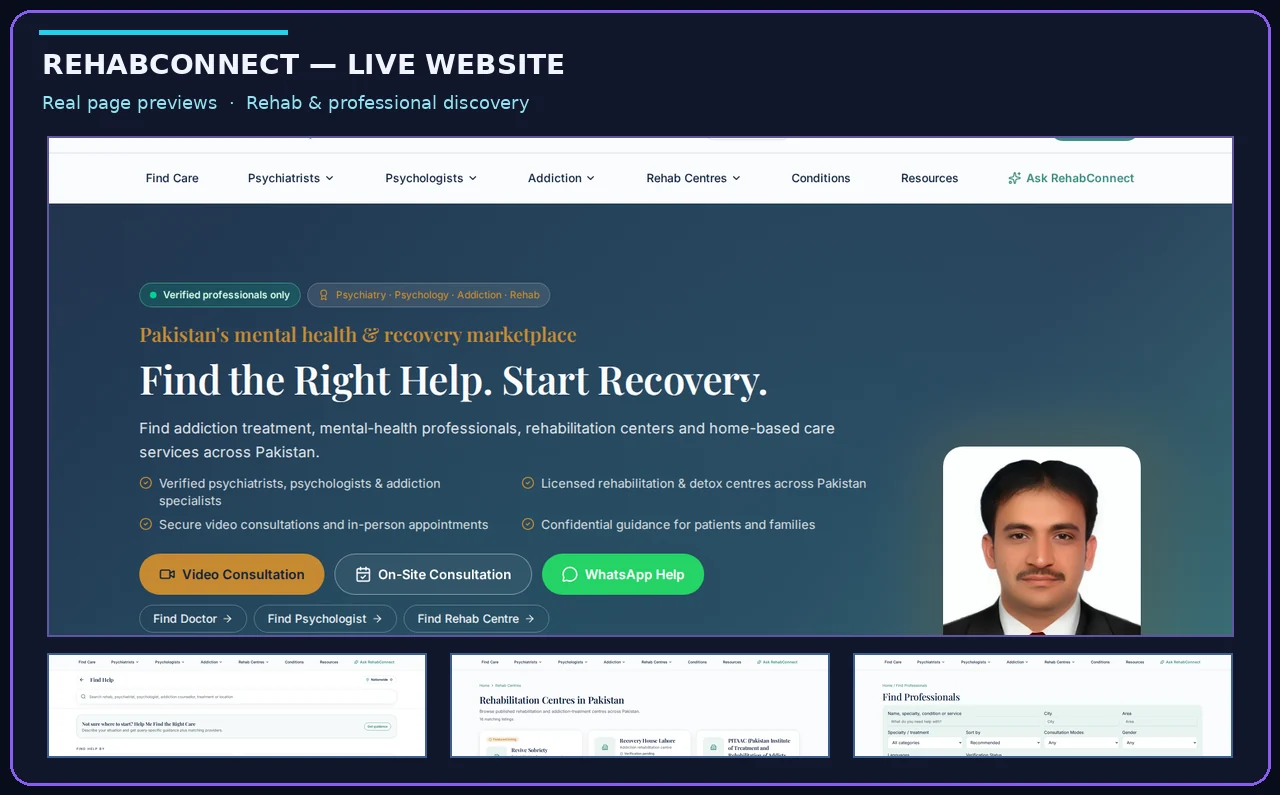
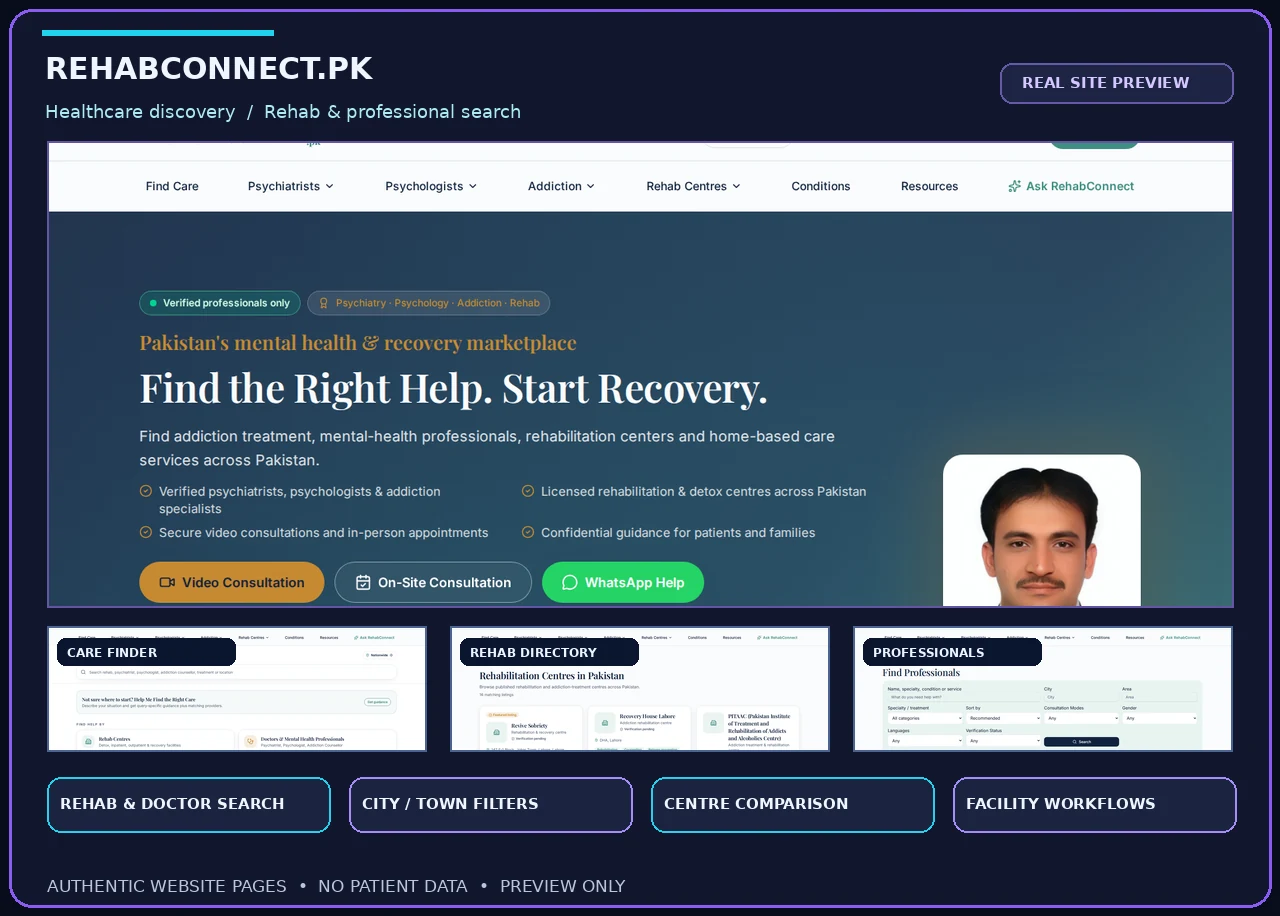
feat(profile): refresh real RehabConnect website previews [skip ci]

diff --git a/PORTFOLIO.md b/PORTFOLIO.md
@@ -78,15 +78,33 @@ These are **real screenshots of public webpages**, not design concepts. The prev
 <!-- DR-SHOAIB-PUBLIC-PAGES:END -->
 
 <!-- REHABCONNECT-PUBLIC-PAGES:START -->
-## RehabConnect — real public website previews
+## RehabConnect — Healthcare Discovery & Facility Operations
 
-These are screenshots from the **actual publicly accessible website**, not illustrative dashboards. **Preview images are not links** to the website or the private GitHub source repository.
+**Platform type:** Healthcare Directory · Rehab Finder · Facility Operations
 
-**Landing page and selected public screens**
+**Short description:** Find rehabilitation centres and mental-health professionals, compare services and access recovery resources.
+
+**Project overview:** A multi-portal healthcare discovery and facility-operations platform. Public pages offer rehabilitation and professional directories, city/town search, centre comparisons and mental-health resources. Separate private tools support facility staff and admission workflows.
+
+**PUBLIC EXPERIENCE · FEATURE BADGES**
+
+<kbd>🏥 Rehab Centre Directory</kbd> <kbd>🩺 Professional Profiles</kbd> <kbd>🔎 Smart Care Finder</kbd> <kbd>📍 City & Town Filters</kbd> <kbd>⚖ Centre Comparison</kbd> <kbd>🧭 Care Matcher</kbd> <kbd>📚 Recovery Resources</kbd> <kbd>🧪 Research & Insights</kbd> <kbd>👨👩👧 Family Support</kbd> <kbd>📝 Health Articles</kbd> <kbd>🏢 Facility Onboarding</kbd> <kbd>📅 Appointment Flows</kbd> <kbd>💻 Responsive Web Platform</kbd>
+
+**FACILITY OPERATIONS · PRIVATE WORKFLOWS**
+
+<kbd>🔐 Role-Based Admin</kbd> <kbd>🛏 Inpatient Management</kbd> <kbd>📊 Facility Reporting</kbd> <kbd>👥 Staff Portals</kbd> <kbd>🗂 Content Management</kbd>
+
+**TECHNOLOGY STACK**
+
+<kbd>React</kbd> <kbd>TypeScript</kbd> <kbd>TanStack Start</kbd> <kbd>Node.js</kbd> <kbd>Express</kbd> <kbd>MySQL</kbd> <kbd>Tailwind CSS</kbd>
+
+*The public features reflect site pages; staff, admissions and operations functions are high-level capabilities found in the private application, not screenshots of live patient or administration data.*
+
+**Website screenshot previews — no external redirects**
 
 <img src="./assets/previews/rehabconnect-live.webp" width="100%" alt="Real RehabConnect homepage with selected public-page previews" />
 
-### Selected website pages
+### Selected Public Website Pages
 
 <table>
 <tr>
@@ -111,7 +129,7 @@ These are screenshots from the **actual publicly accessible website**, not illus
 </tr>
 </table>
 
-*Only approved, anonymous public-facing website pages are captured. No patient portal, staff dashboard, forms or private data are included. The screenshots refresh weekly; live pages can change between captures.*
+*Only approved, anonymous public-facing website pages are captured. No patient portal, staff dashboard, forms or private data are included. The screenshots refresh weekly; live pages can change between captures. Features are project capabilities, not claims of external clinical verification.*
 <!-- REHABCONNECT-PUBLIC-PAGES:END -->
 
 <!-- HADIA-COLLECTION-PUBLIC-PAGES:START -->
